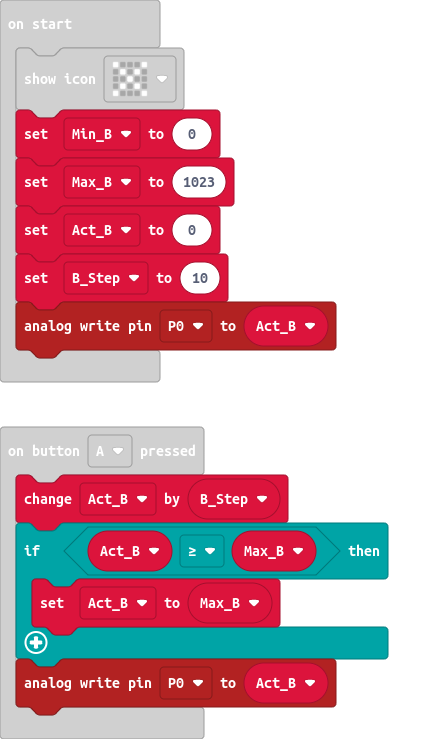
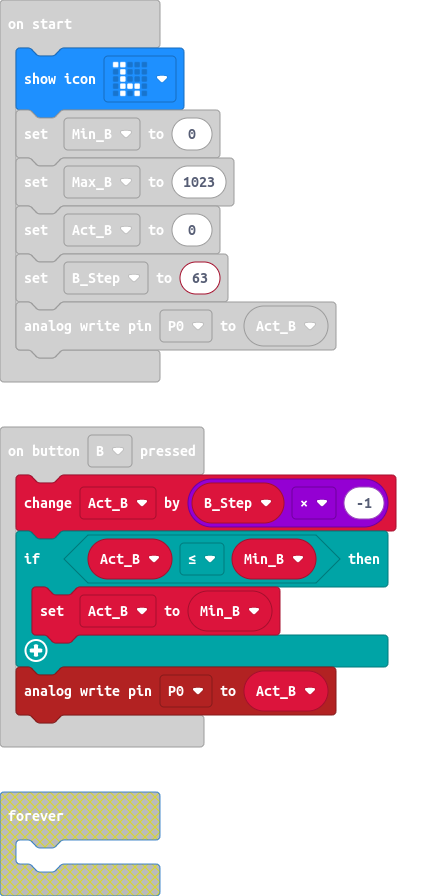
change step to 63 & press B to dim LED

diff --git a/main.ts b/main.ts
@@ -6,17 +6,19 @@ input.onButtonPressed(Button.A, function () {
     pins.analogWritePin(AnalogPin.P0, Act_B)
 })
 input.onButtonPressed(Button.B, function () {
-    pins.analogWritePin(AnalogPin.P0, 256)
+    Act_B += B_Step * -1
+    if (Act_B <= Min_B) {
+        Act_B = Min_B
+    }
+    pins.analogWritePin(AnalogPin.P0, Act_B)
 })
 let B_Step = 0
 let Act_B = 0
 let Max_B = 0
-basic.showIcon(IconNames.No)
 let Min_B = 0
+basic.showIcon(IconNames.Giraffe)
+Min_B = 0
 Max_B = 1023
 Act_B = 0
-B_Step = 10
+B_Step = 63
 pins.analogWritePin(AnalogPin.P0, Act_B)
-basic.forever(function () {
-	
-})
